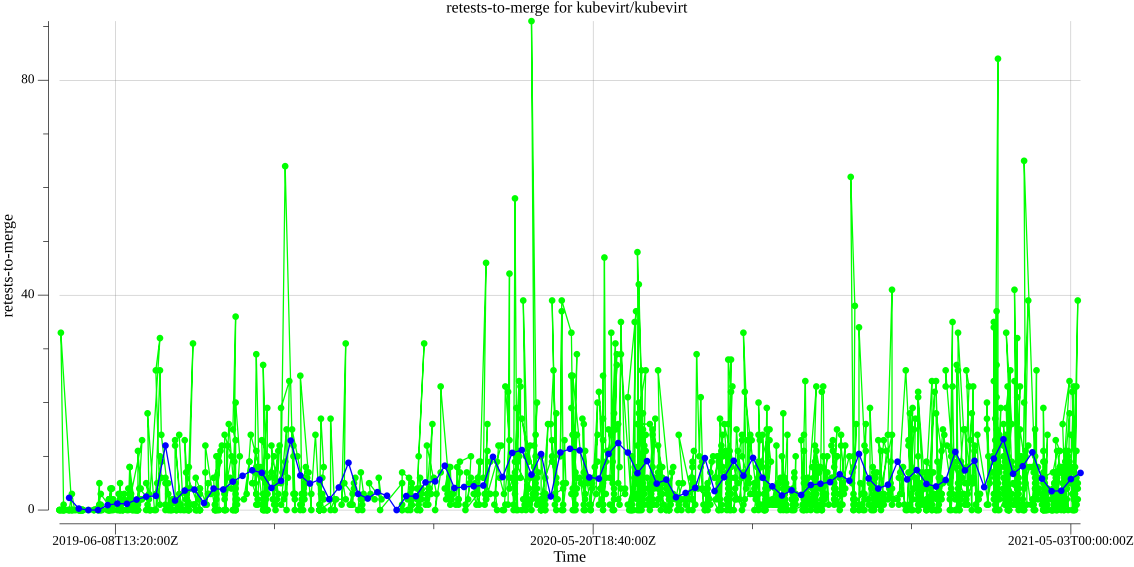
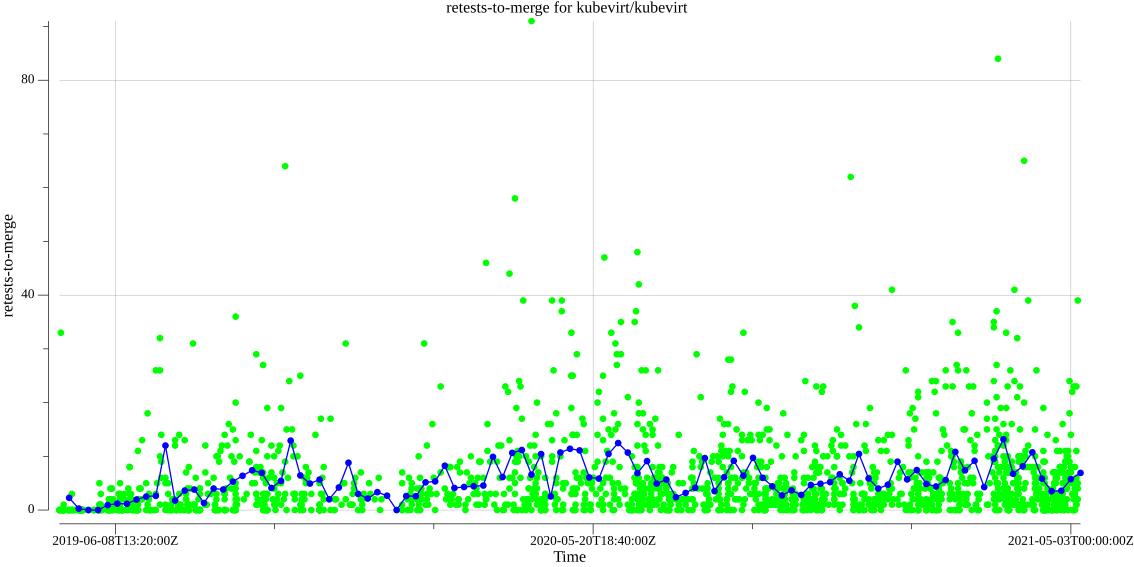
scattered plot for raw data

Changed region(s): [[0.0926, 0.3598, 0.9568, 0.8995], [0.0309, 0.6296, 0.0617, 0.8395], [0.0617, 0.8695, 0.0926, 0.8995]]

diff --git a/pkg/plot/main.go b/pkg/plot/main.go
@@ -25,21 +25,35 @@ func Draw(filePath string, data *types.PlotData) error {
 	p.Y.Label.Text = data.YAxisLabel
 	p.Add(plotter.NewGrid())
 
+	// first curve represent raw data, second curve aggregates
+	cont := 0
 	for _, curve := range data.Curves {
 		data, err := transform(curve.X, curve.Y)
 		if err != nil {
 			return err
 		}
 
-		line, points, err := plotter.NewLinePoints(data)
-		if err != nil {
-			return err
+		var line *plotter.Line
+		var points *plotter.Scatter
+		if cont == 0 {
+			points, err = plotter.NewScatter(data)
+			if err != nil {
+				return err
+			}
+		} else {
+			line, points, err = plotter.NewLinePoints(data)
+			if err != nil {
+				return err
+			}
+			line.Color = curve.Color
+			p.Add(line)
 		}
-		line.Color = curve.Color
+
 		points.Shape = draw.CircleGlyph{}
 		points.Color = curve.Color
 
-		p.Add(line, points)
+		p.Add(points)
+		cont++
 	}
 	log.Debugf("before saving image to %s", filePath)
 	dir := path.Dir(filePath)
